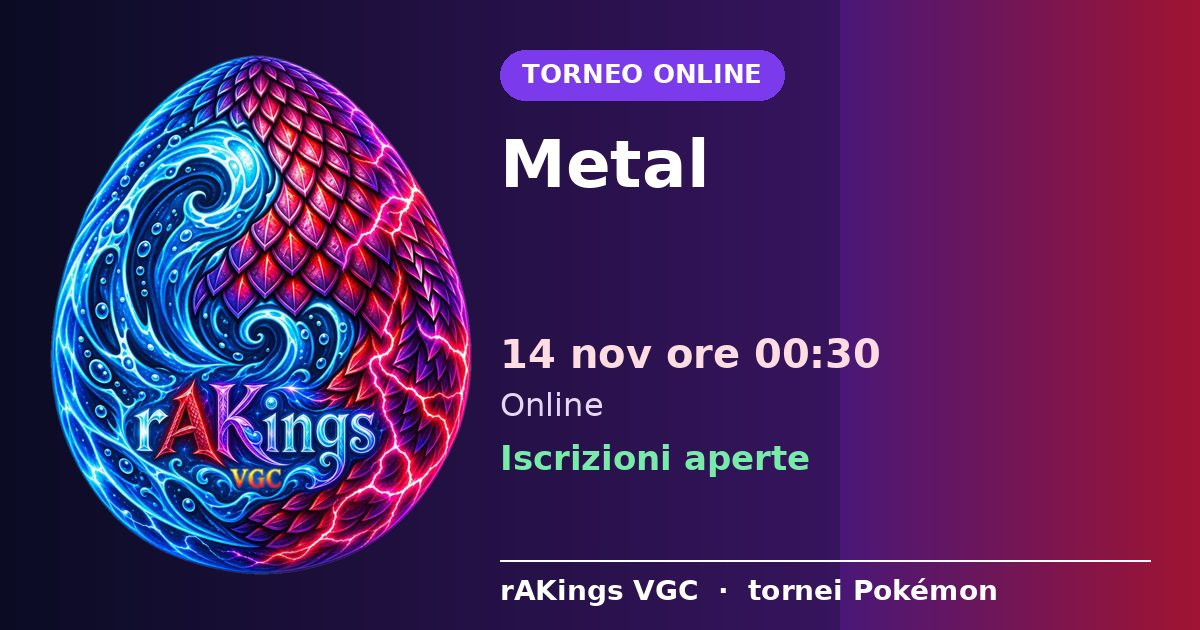
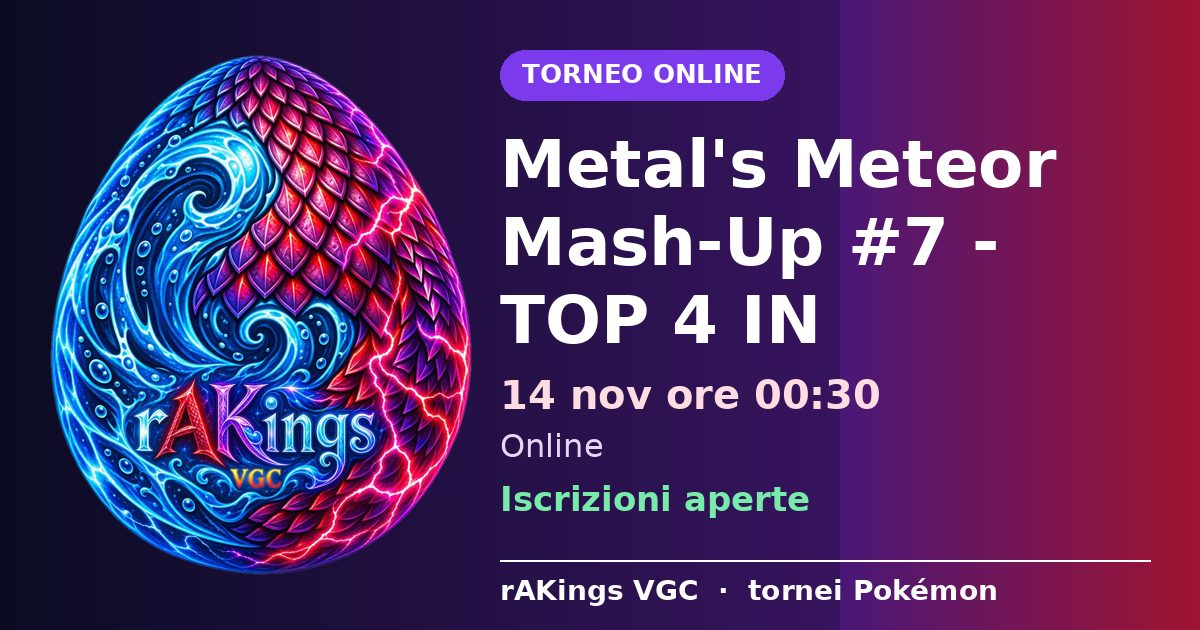
Aggiorna tornei

Changed region(s): [[0.4008, 0.3317, 0.8325, 0.6635], [0.4008, 0.6937, 0.6783, 0.8143], [0.5858, 0.2111, 0.8942, 0.3016]]

diff --git a/e/1u6mt7l.html b/e/1u6mt7l.html
@@ -1,11 +1,11 @@
 <!doctype html>
-<html lang="it"><head><meta charset="utf-8"><title>5 $ to 1st｜Pokexiaotian · rAKings VGC</title>
+<html lang="it"><head><meta charset="utf-8"><title>5 $ to 1st｜Pokexiaotian&#x27;s Weekly Pokemon Battle#2 · rAKings VGC</title>
 <meta name="viewport" content="width=device-width,initial-scale=1"><meta name="robots" content="noindex">
 <meta property="og:type" content="website"><meta property="og:site_name" content="rAKings VGC">
-<meta property="og:title" content="5 $ to 1st｜Pokexiaotian · rAKings VGC"><meta property="og:description" content="Money tournament · Online · 14 nov ore 03:00 · Premio: 5 $">
+<meta property="og:title" content="5 $ to 1st｜Pokexiaotian&#x27;s Weekly Pokemon Battle#2 · rAKings VGC"><meta property="og:description" content="Money tournament · Online · 14 nov ore 03:00 · Premio: 5 $">
 <meta property="og:url" content="https://rakings.github.io/VGCrAKings/e/1u6mt7l.html"><meta property="og:image" content="https://rakings.github.io/VGCrAKings/e/1u6mt7l.jpg">
 <meta property="og:image:width" content="1200"><meta property="og:image:height" content="630">
-<meta name="twitter:card" content="summary_large_image"><meta name="twitter:title" content="5 $ to 1st｜Pokexiaotian · rAKings VGC">
+<meta name="twitter:card" content="summary_large_image"><meta name="twitter:title" content="5 $ to 1st｜Pokexiaotian&#x27;s Weekly Pokemon Battle#2 · rAKings VGC">
 <meta name="twitter:description" content="Money tournament · Online · 14 nov ore 03:00 · Premio: 5 $"><meta name="twitter:image" content="https://rakings.github.io/VGCrAKings/e/1u6mt7l.jpg">
 <link rel="canonical" href="https://rakings.github.io/VGCrAKings/e/1u6mt7l.html">
 <script>location.replace("../index.html#e=1u6mt7l")</script></head>

diff --git a/e/1h9c9z7.html b/e/1h9c9z7.html
@@ -1,11 +1,11 @@
 <!doctype html>
-<html lang="it"><head><meta charset="utf-8"><title>Metal · rAKings VGC</title>
+<html lang="it"><head><meta charset="utf-8"><title>Metal&#x27;s Meteor Mash-Up #7 - TOP 4 IN DISCORD HOF · rAKings VGC</title>
 <meta name="viewport" content="width=device-width,initial-scale=1"><meta name="robots" content="noindex">
 <meta property="og:type" content="website"><meta property="og:site_name" content="rAKings VGC">
-<meta property="og:title" content="Metal · rAKings VGC"><meta property="og:description" content="Online · 14 nov ore 00:30">
+<meta property="og:title" content="Metal&#x27;s Meteor Mash-Up #7 - TOP 4 IN DISCORD HOF · rAKings VGC"><meta property="og:description" content="Online · 14 nov ore 00:30">
 <meta property="og:url" content="https://rakings.github.io/VGCrAKings/e/1h9c9z7.html"><meta property="og:image" content="https://rakings.github.io/VGCrAKings/e/1h9c9z7.jpg">
 <meta property="og:image:width" content="1200"><meta property="og:image:height" content="630">
-<meta name="twitter:card" content="summary_large_image"><meta name="twitter:title" content="Metal · rAKings VGC">
+<meta name="twitter:card" content="summary_large_image"><meta name="twitter:title" content="Metal&#x27;s Meteor Mash-Up #7 - TOP 4 IN DISCORD HOF · rAKings VGC">
 <meta name="twitter:description" content="Online · 14 nov ore 00:30"><meta name="twitter:image" content="https://rakings.github.io/VGCrAKings/e/1h9c9z7.jpg">
 <link rel="canonical" href="https://rakings.github.io/VGCrAKings/e/1h9c9z7.html">
 <script>location.replace("../index.html#e=1h9c9z7")</script></head>

diff --git a/e/15yu41q.html b/e/15yu41q.html
@@ -1,0 +1,13 @@
+<!doctype html>
+<html lang="it"><head><meta charset="utf-8"><title>Friday Fight Night 82! $50 Prize &amp; Team Report · rAKings VGC</title>
+<meta name="viewport" content="width=device-width,initial-scale=1"><meta name="robots" content="noindex">
+<meta property="og:type" content="website"><meta property="og:site_name" content="rAKings VGC">
+<meta property="og:title" content="Friday Fight Night 82! $50 Prize &amp; Team Report · rAKings VGC"><meta property="og:description" content="Money tournament · Online · 21 nov ore 00:00 · Premio: $5">
+<meta property="og:url" content="https://rakings.github.io/VGCrAKings/e/15yu41q.html"><meta property="og:image" content="https://rakings.github.io/VGCrAKings/e/15yu41q.jpg">
+<meta property="og:image:width" content="1200"><meta property="og:image:height" content="630">
+<meta name="twitter:card" content="summary_large_image"><meta name="twitter:title" content="Friday Fight Night 82! $50 Prize &amp; Team Report · rAKings VGC">
+<meta name="twitter:description" content="Money tournament · Online · 21 nov ore 00:00 · Premio: $5"><meta name="twitter:image" content="https://rakings.github.io/VGCrAKings/e/15yu41q.jpg">
+<link rel="canonical" href="https://rakings.github.io/VGCrAKings/e/15yu41q.html">
+<script>location.replace("../index.html#e=15yu41q")</script></head>
+<body style="font-family:system-ui,sans-serif;background:#1d0b0d;color:#fff;text-align:center;padding:40px 16px">
+<p>Apro rAKings VGC…</p><p><a style="color:#ff6b78" href="../index.html#e=15yu41q">Apri il torneo nell'app</a></p></body></html>
